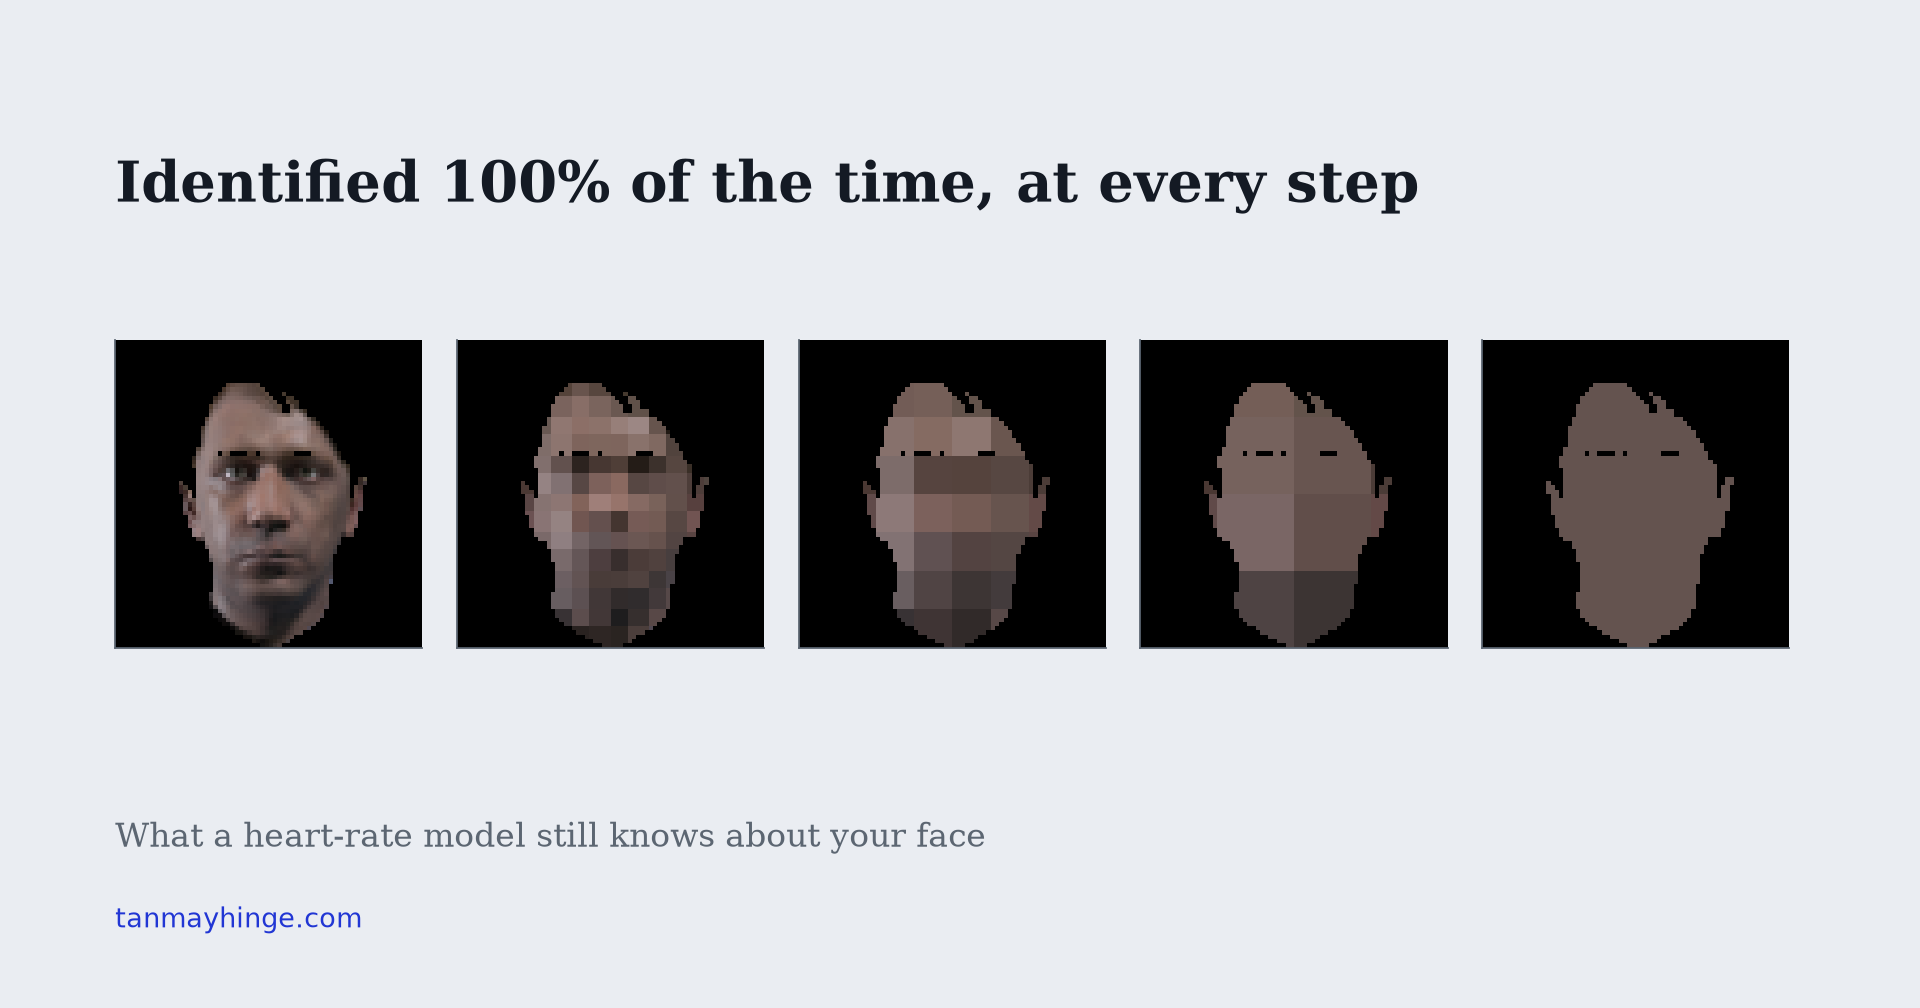
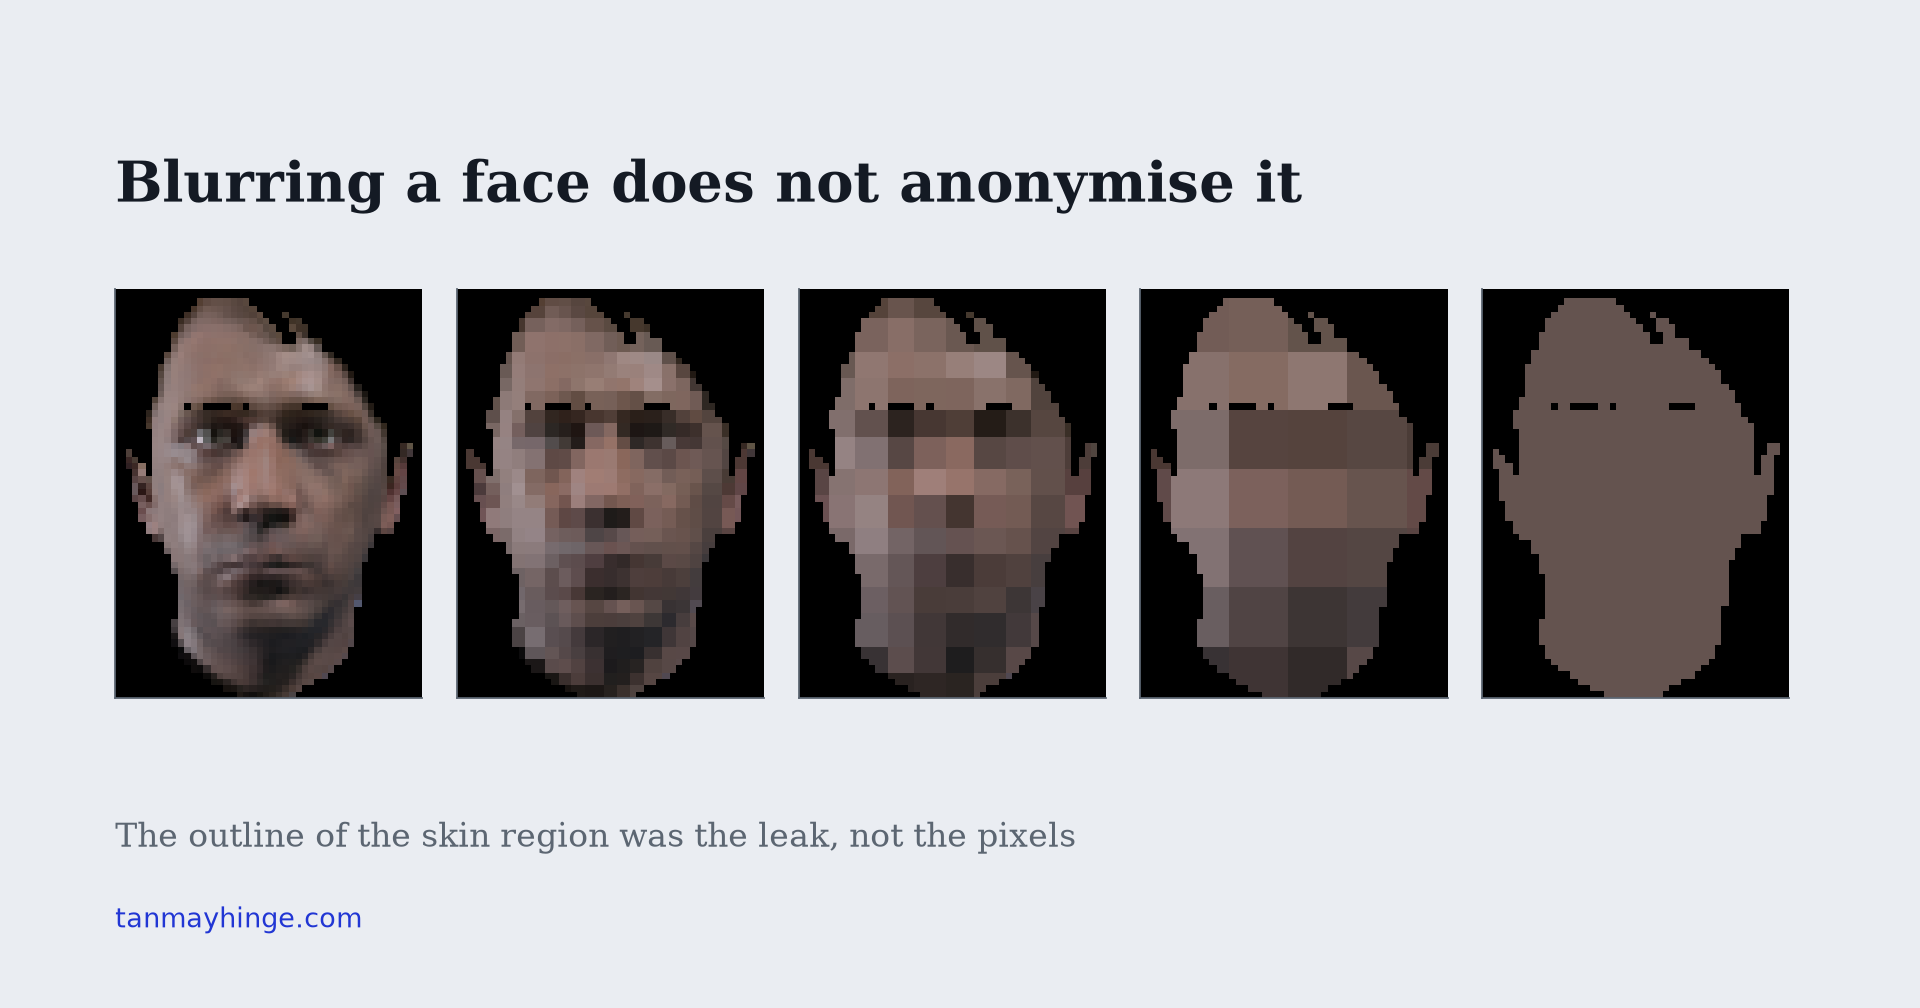
Rework the rPPG write-up on mentor review
The headline was giving the encoder credit for something its own control
disowns: raw pixels with no model score 100% at every rung from a full crop
down to 4x4, so identifying people from a blurred face is a fact about the
input. The dek, the meta and og descriptions, the structured-data description
and the social card now lead on what the study can claim, which is that
blurring does not anonymise and the silhouette is the leak.

Adds a section on the inversion that control exposes. With the outline gone the
embedding falls to 12.5% while raw pixels on the identical input hold 98.3%,
replicating at 24.2% on the second checkpoint, so the encoder is discarding
identity that is still sitting in what it was fed.

Adds related work on Gupta and Etemad (IEEE SMC 2023), whose blurring and
shuffling are conditions here, and states the gap plainly: they measure a face
recogniser on the perturbed image, this measures a probe on the encoder's
embedding, and a defence can be sound against one attacker and untested against
the other.

Names the alternative reading of the empty target region, that this encoder may
simply never have transferred to synthetic faces, and gives the evidence that
narrows it and the experiment that would settle it.

Also moves the null heart-rate arm and the same-recording caveat into the first
screen, defines verification AUC at first use, flags the identity numbers as
point estimates where 100% first appears, turns the SCAMPS download route into
[…]

Changed region(s): [[0.0625, 0.2768, 0.9375, 0.7073], [0.0625, 0.1538, 0.75, 0.2153], [0.0625, 0.7996, 0.5625, 0.8611]]

diff --git a/research/rppg-identity-tradeoff/index.html b/research/rppg-identity-tradeoff/index.html
@@ -5,19 +5,19 @@
   <meta charset="UTF-8" />
   <meta name="viewport" content="width=device-width, initial-scale=1" />
   <title>Probing a frozen rPPG encoder for identity under input degradation · Tanmay Hinge</title>
-  <meta name="description" content="A frozen rPPG encoder, probed for what its embedding carries besides a pulse as the input is destroyed one rung at a time. It identifies 120 subjects from a face block-averaged to 4x4 pixels." />
+  <meta name="description" content="Blurring a face does not anonymise it. Probing a frozen rPPG encoder as its input is destroyed one rung at a time, identity survives every level of block averaging, and only collapses when the outline of the skin region is removed as well." />
   <meta name="author" content="Tanmay Hinge" />
   <link rel="canonical" href="https://tanmayhinge.com/research/rppg-identity-tradeoff/" />
   <meta property="og:type" content="article" />
   <meta property="og:site_name" content="Tanmay Hinge" />
   <meta property="og:locale" content="en_US" />
   <meta property="og:title" content="Probing a frozen rPPG encoder for identity under input degradation" />
-  <meta property="og:description" content="A frozen rPPG encoder, probed for what its embedding carries besides a pulse as the input is destroyed one rung at a time. It identifies 120 subjects from a face block-averaged to 4x4 pixels." />
+  <meta property="og:description" content="Blurring a face does not anonymise it. Probing a frozen rPPG encoder as its input is destroyed one rung at a time, identity survives every level of block averaging, and only collapses when the outline of the skin region is removed as well." />
   <meta property="og:url" content="https://tanmayhinge.com/research/rppg-identity-tradeoff/" />
   <meta property="og:image" content="https://tanmayhinge.com/og/rppg.png" />
   <meta property="og:image:width" content="1200" />
   <meta property="og:image:height" content="630" />
-  <meta property="og:image:alt" content="One synthetic face shown five times, progressively block-averaged until it is a flat silhouette, under the headline: identified 100% of the time, at every step." />
+  <meta property="og:image:alt" content="One synthetic face shown five times, progressively block-averaged until it is a flat silhouette, under the headline: blurring a face does not anonymise it." />
   <meta property="article:published_time" content="2026-08-16" />
   <meta property="article:modified_time" content="2026-08-16" />
   <meta property="article:author" content="https://tanmayhinge.com/" />
@@ -91,6 +91,12 @@
     .titlestrip { display: block; width: 100%; height: auto; border-radius: 6px;
                   margin: 0 0 calc(var(--u) * 4); background: #000;
                   border: 1px solid var(--hair); }
+    /* an aside, not a box: plain italic text with no ground, rule or padding, so it
+       reads as a change of voice rather than as a piece of interface */
+    .callout { margin: calc(var(--u) * 4) 0; font-style: italic; }
+    .callout .clabel { display: block; color: var(--muted); }
+    .callout p { margin: 0; }
+    .callout p + p { margin-top: calc(var(--u) * 2); }
     .keynum { font-family: var(--mono); color: var(--ink); font-weight: 500; }
   </style>
 
@@ -100,7 +106,7 @@
     "@type": "ScholarlyArticle",
     "@id": "https://tanmayhinge.com/research/rppg-identity-tradeoff/#article",
     "headline": "Probing a frozen rPPG encoder for identity under input degradation",
-    "description": "A frozen remote-photoplethysmography encoder identifies 120 synthetic subjects perfectly even when the face is block-averaged to four by four pixels, while the heart-rate signal in the same embedding barely beats guessing the dataset average.",
+    "description": "Blurring a face does not anonymise it. Probing a frozen remote-photoplethysmography encoder across a degradation ladder, identity survives every level of block averaging and collapses only when the outline of the skin region is removed as well. A raw-pixel control matches the encoder throughout the ladder and overtakes it at the bottom, and the heart-rate arm is null.",
     "url": "https://tanmayhinge.com/research/rppg-identity-tradeoff/",
     "image": "https://tanmayhinge.com/og/rppg.png",
     "datePublished": "2026-08-16",
@@ -145,14 +151,21 @@
          alt="" aria-hidden="true" decoding="async" />
 
     <h1 class="ptitle" id="content" tabindex="-1">Probing a frozen rPPG encoder for identity under input degradation</h1>
+    <p class="paperlink">
+      <a href="https://github.com/tanmayhinge/rppg-identity-tradeoff"
+         target="_blank" rel="noopener noreferrer">Code (GitHub)</a>
+    </p>
+
     <p class="dek">
       A camera pointed at your face can measure your heart rate, because your skin
       brightens and dims very slightly with each beat. The pitch for this technology is
       that only a number comes out. I took a published heart-rate model, froze it, and
       started destroying its input one step at a time to find out what else it was
-      carrying. It identified 120 people perfectly from a face blurred down to
-      sixteen pixels.
+      carrying. Blurring the face away never cost anything in re-identifiability.
+      Identity only collapsed when I removed the outline of the skin region as well, and
+      that turned out to be the thing that was leaking all along.
     </p>
+
 
     <article class="report prose">
 
@@ -194,6 +207,20 @@
         gets cached, batched, sent to a server, or logged for debugging. Nobody in the
         applied literature reports what is in them. That is the gap this is about.
       </p>
+      <p>
+        Three things are worth knowing before you invest in the rest of it. The
+        heart-rate half did not work: the probe lands at
+        <span class="keynum">25.3</span> bpm against
+        <span class="keynum">28.8</span> for ignoring the video and guessing the
+        dataset average, and its interval reaches that floor, so I cannot separate it from
+        guessing. The identity half is measured across clips of one recording, so every
+        number here is a ceiling on re-identification rather than an estimate of it, and
+        none of them carries a confidence interval. And the encoder deserves less credit
+        than the headline implies: raw pixels with no model behind them match it at every
+        rung of the blurring. Each gets its own section below. What stays open is whether
+        pulse and identity are genuinely coupled, or whether this encoder simply never
+        transferred to synthetic faces.
+      </p>
 
       <h2 class="h-label">Faces that belong to nobody</h2>
       <p>
@@ -209,13 +236,26 @@
       <p>
         Getting the data was the first surprise. SCAMPS ships a spreadsheet of per-file
         download links, and every one of them points at a storage account that no longer
-        exists. The only working route is a single 593&nbsp;GB compressed archive. Since
-        the archive is gzipped, and gzip cannot be skipped into, you cannot ask for file
-        number 400; you can only start reading from the beginning and stop when you have
-        enough. So the ingest is literally a download piped into an extractor with a byte
-        budget attached: it streams until it has taken 16&nbsp;GB and then the pipe
-        closes. That got me 122 videos in about an hour and a half.
+        exists. The only working route is a single 593&nbsp;GB compressed archive, and you
+        almost certainly do not want all of it.
       </p>
+      <div class="callout">
+        <span class="clabel">If you are trying to use SCAMPS yourself</span>
+        <p>
+          The per-file download links in the distributed spreadsheet are dead. The only
+          live route is one 593&nbsp;GB gzipped tar, and because gzip cannot be seeked
+          into, there is no way to ask for file number 400: you can only read from the
+          start and stop when you have enough.
+        </p>
+        <p>
+          So take a prefix on purpose. Pipe the download straight into an extractor with a
+          byte budget attached and close the pipe when the budget is spent. At
+          16&nbsp;GB that yields 122 videos in about an hour and a
+          half instead of a multi-day transfer. The catch is that a prefix of the archive
+          is not a random sample of the dataset, so check what you actually got before
+          treating it as one.
+        </p>
+      </div>
 
       <h2 class="h-label">How you break a face on purpose</h2>
       <p>
@@ -242,6 +282,33 @@
         layout is destroyed. <em>Untouched</em> keeps hair, clothing and background, as a
         reference point. And the last one I only added halfway through, for a reason that
         turns out to be the most interesting part of the result.
+      </p>
+      <p>
+        Those two are not arbitrary. Blurring and pixel shuffling are the ingredients of a
+        published privacy method for exactly this setting: Gupta and Etemad's
+        <a href="https://arxiv.org/abs/2306.01141"><em>Privacy-Preserving Remote Heart Rate
+        Estimation from Facial Videos</em></a> (IEEE SMC, 2023) crops the face to cheek and
+        forehead patches, shuffles the pixels under a per-video key, blurs the result with a
+        3&times;3 kernel, and reports that facial recognition accuracy falls by over 60%
+        while heart-rate error barely moves. Their shuffle holds one key across every frame
+        of a video, which is how the shuffle condition here is built too.
+      </p>
+      <p>
+        Their evaluation and this one measure different attackers, and that is the whole
+        reason to run this. They take the <em>perturbed image</em>, embed it with ArcFace,
+        reduce to 32 dimensions and classify. That is the right test for someone who
+        intercepts the video. It says nothing about someone who gets the rPPG network's own
+        embedding, which is the thing that actually gets cached and shipped off-device, and
+        which is what the probes here read. A defence can be sound against the first
+        attacker and untested against the second.
+      </p>
+      <p>
+        One more detail from their results is worth carrying: blurring is not a monotone
+        privacy dial even on their own measurement. They select a 3&times;3 kernel because
+        their sweep shows it is the <em>optimal</em> size for suppressing identification,
+        which means larger kernels recover identity rather than removing it. On the ladder
+        here, blurring never suppresses identity at any size to begin with. Neither result
+        supports treating "blur it more" as a privacy control.
       </p>
 
       <h2 class="h-label">Two questions, one set of numbers</h2>
@@ -415,10 +482,12 @@
 <text class="c-cat" x="789.3" y="490.0" text-anchor="middle">unmasked</text>
 <text class="c-axis-title" x="92" y="528">← LESS OF THE SKIN REGION LEFT</text>
 <text class="c-axis-title" x="542.4" y="510.0">DIFFERENT MANIPULATIONS, NOT FURTHER RUNGS</text>
-<text class="lg-id" x="826" y="32" text-anchor="end">the frozen model</text>
-<path class="ln-id" d="M680.8,28 l24,0" />
-<text class="lg-floor" x="826" y="46" text-anchor="end">raw pixels, no model</text>
-<path class="ln-floor" d="M652.0,42 l24,0" />
+<text class="lg-id" x="826" y="18" text-anchor="end">the frozen model</text>
+<path class="ln-id" d="M680.8,14 l24,0" />
+<text class="lg-floor" x="826" y="32" text-anchor="end">raw pixels, no model</text>
+<path class="ln-floor" d="M652.0,28 l24,0" />
+<text class="lg-floor" x="826" y="46" text-anchor="end">POS, a formula from 2013</text>
+<path class="ln-pos" d="M623.2,42 l24,0" />
 </svg>
         <figcaption>Fig 4. Both quantities read off the same embedding, on a shared axis. Identity, above, does not move until the very bottom of the ladder. Heart-rate error, below, never gets far from the line you would achieve by ignoring the video and always guessing the dataset's average heart rate.</figcaption>
       </figure>
@@ -428,7 +497,18 @@
         block average. Sixteen coloured squares per frame, one of
         120 possible people, and the probe does not make a single mistake. The
         entire ordered ladder, every rung from a full-resolution face down to sixteen
-        blocks, costs essentially nothing in re-identifiability.
+        blocks, costs essentially nothing in re-identifiability. These are point estimates
+        over 120 videos with no confidence intervals attached, which is a real gap
+        and one I come back to at the end.
+      </p>
+      <p>
+        The encoder should not take the credit for that, though, and the control that says
+        so is in the same table. Fit the identical probe on the raw degraded pixels, with no
+        network anywhere in the loop, and it also scores
+        <span class="keynum">100%</span> at that rung. Block averaging is simply
+        not an anonymisation operation, and the encoder inherits an image that was never
+        anonymous. That distinction gets its own section shortly, because at the bottom of
+        the ladder the two come apart in the direction nobody expects.
       </p>
       <p>
         Shuffling the pixels does not help either: <span class="keynum">99.2%</span>.
@@ -479,8 +559,11 @@
         <span class="keynum">15×</span> what you would get by guessing.
       </p>
       <p>
-        There is a wrinkle here worth sitting with. On the verification metric (given two
-        clips, are they the same person?), the untrained network, the one with random
+        There is a wrinkle here worth sitting with. It shows up on the verification
+        metric, which asks a different question from the one above: shown one matching and
+        one mismatched pair of clips, how often does the embedding rank the true match
+        higher? That is an AUC, so 0.5 is a coin flip and 1.0 is never wrong. On it, the
+        untrained network, the one with random
         weights that was never trained on anything at all, scores
         <span class="keynum">0.942</span> on this condition, against
         the trained model's <span class="keynum">0.726</span>. A randomly
@@ -488,6 +571,57 @@
         that spent its training learning to read pulses. Whatever survives here is a
         property of the input, not something the heart-rate objective went looking for.
         You do not escape it by choosing a different model.
+      </p>
+
+      <h2 class="h-label">The encoder throws away what its input keeps</h2>
+      <p>
+        There is a control running underneath all of this that deserves its own section,
+        because it decides how much of the result above the encoder can be credited with.
+        The raw-pixel floor fits the same probe directly on the degraded image, with no
+        model in the loop at all. Down the whole ordered ladder it is pinned at
+        <span class="keynum">100%</span>, exactly level with the embedding.
+        Every rung of blurring is matched by a probe that never saw the network. So the
+        headline finding of this study is not that the encoder is unusually leaky. It is
+        that block averaging does not remove identity from an image, and any model fed
+        that image inherits the problem.
+      </p>
+      <p>
+        At the bottom of the ladder the two come apart, and they come apart the wrong way
+        round. With the outline deleted, the embedding falls to
+        <span class="keynum">12.5%</span> while raw pixels on the
+        <em>identical input</em> stay at <span class="keynum">98.3%</span>.
+        On the verification metric it is 0.726 against
+        1.000. The encoder is discarding identity that is still plainly
+        sitting in what it was handed, and it replicates on the second checkpoint:
+        24.2% against the same 98.3%.
+      </p>
+      <div class="callout">
+        <span class="clabel">The one place the encoder helps</span>
+        <p>
+          Same input, two readers. A linear probe on the raw degraded pixels identifies
+          <span class="keynum">98.3%</span> of 120 people. The
+          same probe on the frozen encoder's embedding of those pixels gets
+          <span class="keynum">12.5%</span>. Passing the image through the
+          network destroyed identity that survived the degradation itself.
+        </p>
+      </div>
+      <p>
+        The likely reason is mundane and worth stating as a guess rather than a result,
+        because nothing here isolates it. Both checkpoints are the
+        <code>DiffNormalized</code> variants, which means the network is fed frame
+        differences rather than frames. A flat coloured frame has almost no
+        frame-to-frame difference, so the constant skin tone is normalised away before the
+        first convolution. Raw pixels keep that absolute colour, and on
+        120 rendered avatars a mean RGB triple is very nearly a
+        fingerprint. Testing that properly means comparing against the non-normalised
+        checkpoints, which is a separate run.
+      </p>
+      <p>
+        Either way it cuts against the tidy version of the privacy story. Encoders are not
+        uniformly worse than the pixels they consume, and a defence that reports what an
+        image-space attacker can recover is not measuring the same thing as one that
+        reports what survives in the representation. Both numbers are needed, and this
+        study is the only place in the article where they disagree.
       </p>
 
       <h2 class="h-label">It is not one checkpoint being strange</h2>
@@ -682,6 +816,35 @@
         produced: on this dataset, with this encoder, there is no amount of blurring that
         hides the person while keeping the pulse. You are not trading one for the other.
         You are losing the pulse first and keeping the person all the way down.
+      </p>
+      <p>
+        Before that gets quoted as a result, here is the reading that would undo it. An
+        empty target region is consistent with two very different worlds. In the first,
+        pulse and identity really are entangled in this representation, and no degradation
+        separates them. In the second, this encoder never worked on these faces at all, the
+        heart-rate axis was dead on arrival, and "the pulse does not survive degradation" is
+        just a restatement of the fact that there was no pulse in the embedding to begin
+        with. The heart-rate numbers are equally consistent with both, which is exactly what
+        makes it worth saying out loud.
+      </p>
+      <p>
+        One piece of evidence already separates them partway. POS, a formula from 2013 with
+        no parameters and no training, recovers heart rate from these same videos at
+        <span class="keynum">15.8</span> bpm. So the pulse is genuinely present in
+        the pixels; nothing about SCAMPS makes it unrecoverable. What failed is the frozen
+        encoders' transfer onto synthetic faces, not the data. That narrows the second
+        world without closing it, because an encoder that cannot read the pulse in the
+        first place cannot be asked to trade it away.
+      </p>
+      <p>
+        The experiment that settles it is a real-data arm, where these checkpoints are
+        in-domain rather than being asked to cross from real training faces to rendered
+        ones: PURE, with ten subjects across six sessions, and MMPD, with thirty-three
+        subjects across four lighting conditions. If the target region is still empty when
+        the heart-rate axis is alive, the coupling claim stands. If a rung opens up, this
+        study measured a broken encoder and said something about the ladder. That run has
+        not happened yet, and until it does the honest summary is that the identity result
+        stands on its own and the tradeoff claim is provisional.
       </p>
 
       <h2 class="h-label">What I would not claim from this</h2>
